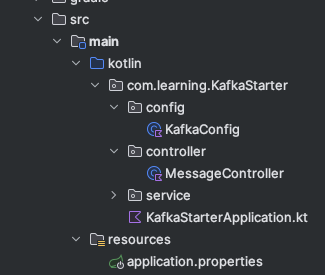
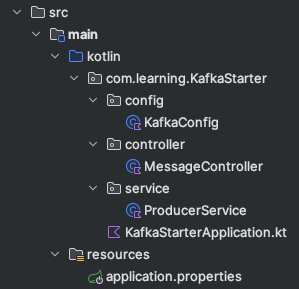
workshop #3

diff --git a/src/main/kotlin/com/learning/KafkaStarter/service/ProducerService.kt b/src/main/kotlin/com/learning/KafkaStarter/service/ProducerService.kt
@@ -20,15 +20,6 @@ class ProducerService(
     }
     
     fun sendMessage(message: String) {
-        logger.info("Sending message to topic $TOPIC_NAME: $message")
-        val key = UUID.randomUUID().toString()
-        kafkaTemplate.send(TOPIC_NAME, key, message)
-            .whenComplete { result, exception ->
-                if (exception != null) {
-                    logger.error("Failed to send message: ${exception.message}")
-                } else {
-                    logger.info("Message sent successfully to ${result?.recordMetadata?.topic()}:${result?.recordMetadata?.partition()}")
-                }
-            }
+        TODO("Not yet implemented")
     }
 }

diff --git a/class/modules/lesson_5/workshop.md b/class/modules/lesson_5/workshop.md
@@ -10,6 +10,7 @@ Let's start with the basic structure of a Kafka application.
 
 #### Kafka Producer 
 
+Try adding the following code to the `KafkaConfig` class.
 ```kotlin
     // Producer Configuration
     @Bean
@@ -27,3 +28,66 @@ Let's start with the basic structure of a Kafka application.
         return KafkaTemplate(producerFactory())
     }
 ```
+- **Boostrap Servers** - is the address of the Kafka server.
+- **Key Serializer** - is the serializer for the key.
+- **Value Serializer** - is the serializer for the value.
+
+### Kafka Producer Service
+
+```kotlin
+    fun sendMessage(message: String) {
+        logger.info("Sending message to topic $TOPIC_NAME: $message")
+        val key = UUID.randomUUID().toString()
+        kafkaTemplate.send(TOPIC_NAME, key, message)
+            .whenComplete { result, exception ->
+                if (exception != null) {
+                    logger.error("Failed to send message: ${exception.message}")
+                    // Error handling should be implemented here
+                } else {
+                    logger.info("Message sent successfully to ${result?.recordMetadata?.topic()}:${result?.recordMetadata?.partition()}")
+                }
+            }
+    }
+```
+
+### A Controller
+
+A basic controller for sending messages to Kafka topics. Allowing the user to send a message to the topic.
+```kotlin
+    @RestController
+    @RequestMapping("/api/messages")
+    class MessageController(
+        private val producerService: ProducerService
+    ) {
+    
+        @PostMapping("/send")
+        fun sendMessage(@RequestBody request: String) =
+            producerService.sendMessage(request)
+    }
+```
+
+### Application Properties
+
+```properties
+# Application Configuration
+spring.application.name=kafka-starter-main
+
+# Kafka Configuration
+spring.kafka.bootstrap-servers=localhost:9092
+spring.kafka.consumer.group-id=kafka-starter-group-1
+```
+
+### Run the application
+
+### Open swagger and try sending a message to the topic.
+
+http://localhost:8090/swagger-ui/index.html#
+
+```
+curl -X 'POST' \
+  'http://localhost:8090/api/messages/send' \
+  -H 'accept: */*' \
+  -H 'Content-Type: application/json' \
+  -d '"test"'
+  ```
+

diff --git a/class/modules/lesson_3/workshop.md b/class/modules/lesson_3/workshop.md
@@ -63,7 +63,7 @@ services:
     depends_on:
       - kafka
     ports:
-      - "8080:8080"
+      - "8081:8080"
     environment:
       KAFKA_CLUSTERS_0_NAME: lab-cluster
       KAFKA_CLUSTERS_0_BOOTSTRAPSERVERS: kafka:29092
